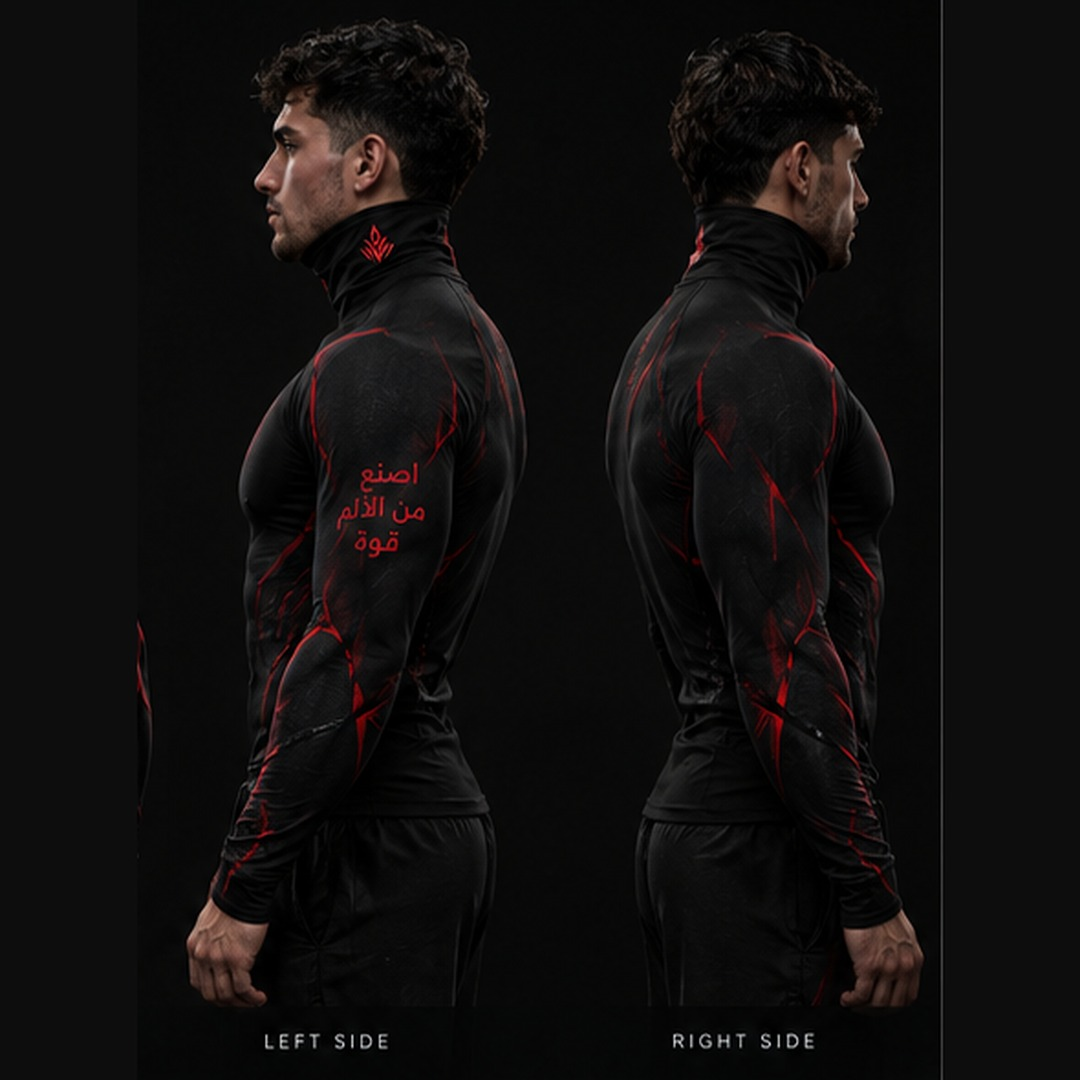
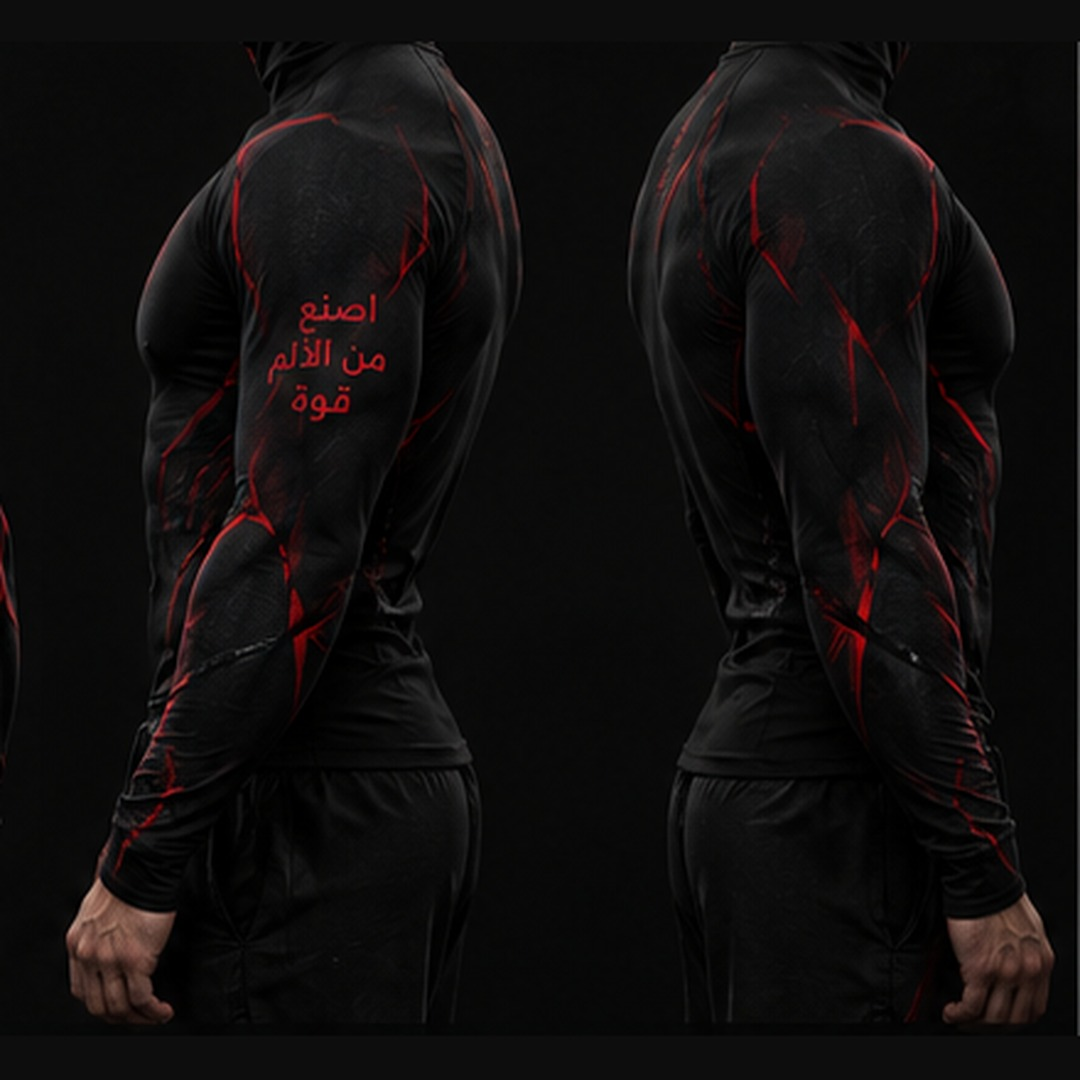
Store photos: crop out faces, shirt-only main image
Claude-Session: https://claude.ai/code/session_01SRhB9fou4jcEHYnkuQ9WEG

diff --git a/store/index.html b/store/index.html
@@ -1,8 +1,7 @@
 <!doctype html><html lang="ar" dir="rtl"><head><meta charset="utf-8"><meta name="viewport" content="width=device-width,initial-scale=1"><title>تصاور المتجر · VAYNORA</title>
 <style>body{margin:0;background:#0D0D0D;color:#F4F1EC;font-family:system-ui,sans-serif;padding:16px}h1{font-size:20px;border-top:3px solid #8E1D20;padding-top:12px}p{color:#bbb}img{width:100%;border-radius:10px;margin:8px 0 4px}small{display:block;margin-bottom:18px;color:#C81E1E}</style></head>
 <body><h1>تصاور منتوج الكومبريسيون</h1><p>اضغط مطوّل على كل تصويرة ← Enregistrer dans Photos. بالترتيب: 1 الأولى هي الرئيسية.</p>
-<img src="p1-front.jpg"><small>1 · القدّام (الرئيسية)</small>
-<img src="p2-back.jpg"><small>2 · الظهر</small>
-<img src="p3-sides.jpg"><small>3 · الجنب</small>
-<img src="p5-full.jpg"><small>4 · اللوحة الكاملة</small>
-</body></html>
+<img src="p4-shirt.jpg?v=2"><small>1 · المريول وحدو (الرئيسية)</small>
+<img src="p1-front.jpg?v=2"><small>2 · القدّام</small>
+<img src="p2-back.jpg?v=2"><small>3 · الظهر</small>
+<img src="p3-sides.jpg?v=2"><small>4 · الجنب</small>
